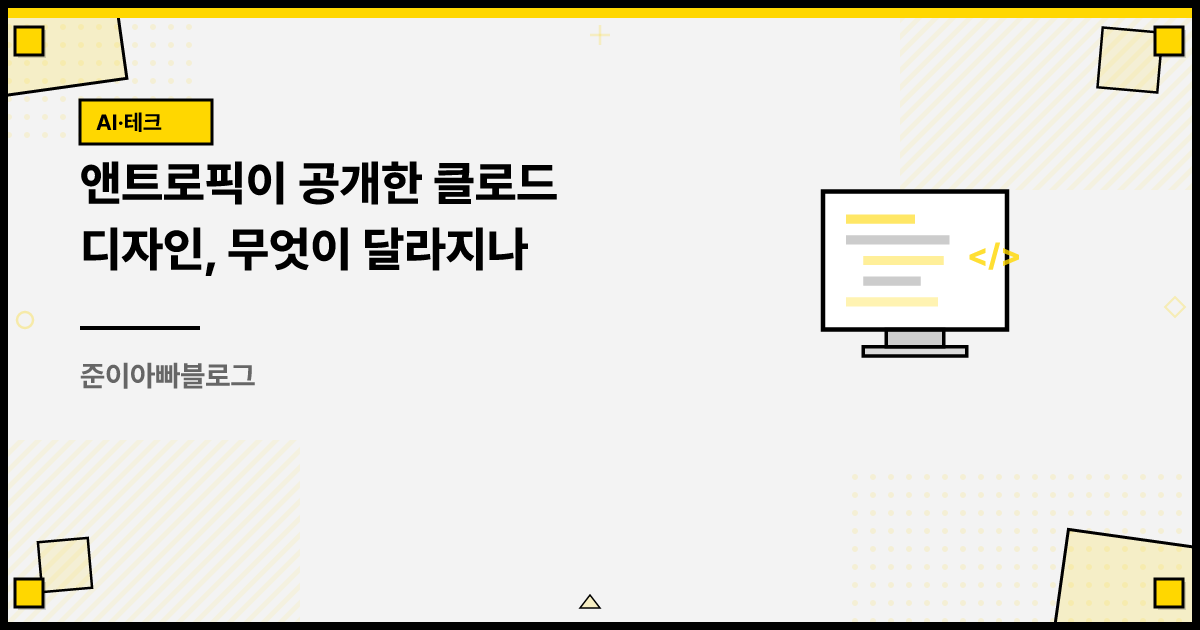
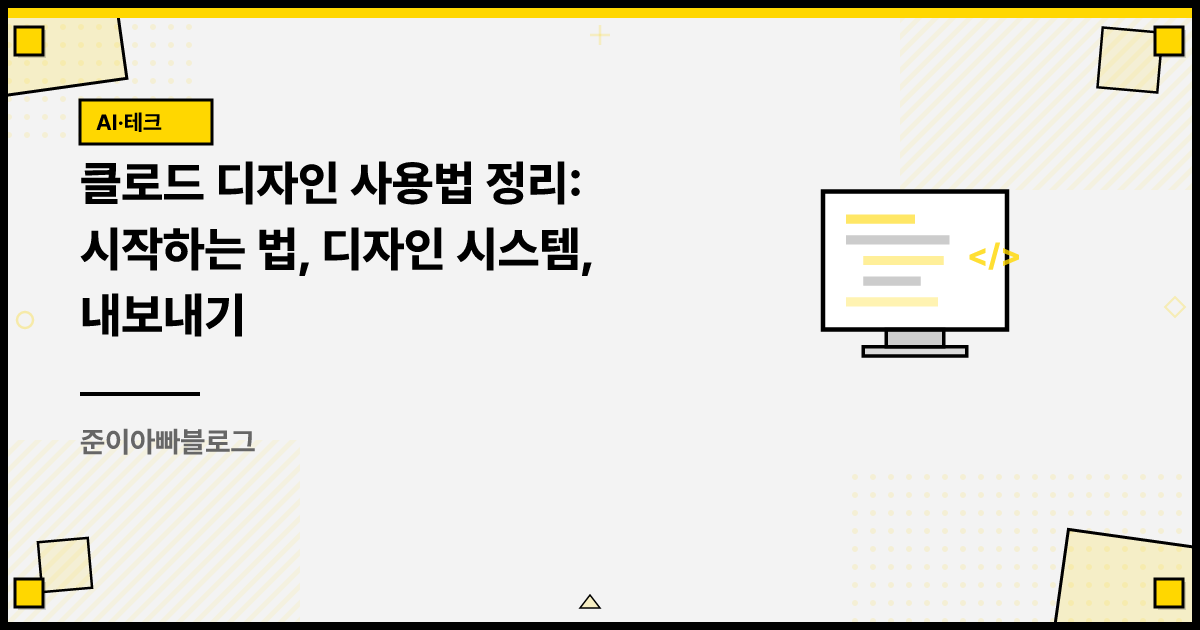
fix(content): 클로드 디자인 글을 사용법 중심으로 개편하고 사실 갱신
헤드 검색어 "클로드 디자인"이 90일 13,953노출에 CTR 0.16%였다. SERP 상위가
사용법 문서인데 글은 출시 소식 어조라 의도가 어긋나 있었다.

공식 도움말 기준으로 사용법 섹션 3개(시작 방법, 디자인 시스템 설정,
내보내기와 핸드오프)를 추가하고 순서를 앞으로 옮겼다. 4월 이후 바뀐 사실도
바로잡았다. PPTX 내보내기는 현재 지원되며 제공 상태는 베타다. 퀴즈에서
PPTX를 오답으로 둔 선택지를 교체했다.

구어체 질문형 소제목 8개를 명사형으로 정리하고 metaTitle의 사이트명 접미를
제거했다. updatedAt을 기록해 재크롤링 우선순위를 올린다.

Claude-Session: https://claude.ai/code/session_01G3Mmc25bnKLy8cVsujPTf2

diff --git a/content/insights/claude-design-launch-review.md b/content/insights/claude-design-launch-review.md
@@ -1,133 +1,195 @@
 ---
 slug: claude-design-launch-review
-title: '앤트로픽이 공개한 클로드 디자인, 무엇이 달라지나'
+title: '클로드 디자인 사용법 정리: 시작하는 법, 디자인 시스템, 내보내기'
 excerpt: >-
-  앤트로픽 랩스가 2026년 4월 17일 공개한 클로드 디자인은 자연어 지시로 웹 프로토타입과 디자인 시스템을 만들고 그대로 코드까지 넘기는
-  도구입니다. 출시 직후 Figma 주가가 즉시 하락했고 Canva는 통합 파트너로 합류했습니다. 출시 정보, 시장 반응, 그리고 이
-  업데이트가 보여주는 앤트로픽의 방향성을 함께 정리했습니다.
+  클로드 디자인(Claude Design)은 자연어 지시로 웹 시안과 디자인 시스템을 만들고 그대로 코드까지 넘기는 앤트로픽의 도구입니다.
+  claude.ai/design에서 시작하는 방법부터 디자인 시스템 설정, 내보내기 형식, 사용량 한도까지 공식 문서를 기준으로 정리했습니다.
 category: AI_TECH
 tags:
   - AI
   - 자동화
   - 노코드
 publishedAt: '2026-04-18T14:00:00.000Z'
+updatedAt: '2026-08-03T00:00:00.000Z'
 quiz:
   - options:
       - 디자인 시스템을 자동 학습한 뒤 단일 명령으로 프로덕션 코드까지 넘기는 closed loop를 갖췄다는 점
-      - 채팅창에서 답을 받지 않고 곧바로 .pptx 파일이 떨어진다는 점
       - 무료 플랜에서도 무제한으로 쓸 수 있다는 점
       - 사람이 손으로 그리는 정밀 픽셀 작업을 더 빠르게 대체한다는 점
+      - 여러 명이 같은 시안을 동시에 편집할 수 있다는 점
     question: 'v0, Lovable 같은 다른 AI 디자인 도구와 비교했을 때 클로드 디자인의 가장 차별적인 지점은 무엇일까요?'
     explanation: >-
-      클로드 디자인은 코드베이스를 읽어 색상, 타이포그래피, 컴포넌트로 구성된 디자인 시스템을 자동 추출하고, 완성된 시안을 Claude
-      Code로 단일 명령에 넘겨 프로덕션 코드까지 만들어 내는 closed loop가 가장 큰 차별점입니다. 이 흐름은 The New
-      Stack과 VentureBeat가 공통으로 핵심 차별점으로 지목한 부분이며, v0가 React 컴포넌트 출력에 강하고
-      Lovable이 배포까지 한 번에 간다면 클로드 디자인은 그 사이에 자리해 시안과 프로덕션 코드를 같은 생태계 안에서 묶는 데
-      강합니다. PPTX 파일 즉시 출력이나 무료 무제한 사용은 사실이 아니며, 정밀 픽셀 디자인은 여전히 사람의 영역입니다.
+      클로드 디자인은 코드베이스를 읽어 색상, 타이포그래피, 컴포넌트로 구성된 디자인 시스템을 자동 추출하고, 완성된 시안을 핸드오프
+      번들로 묶어 Claude Code에 넘기는 closed loop가 가장 큰 차별점입니다. 무료 플랜은 지원 대상이 아니고, 정밀 픽셀
+      디자인은 여전히 사람의 영역이며, 공식 문서는 여러 사용자의 동시 편집을 지원하지 않는다고 밝히고 있습니다.
     correctIndex: 0
-metaTitle: '앤트로픽이 공개한 클로드 디자인, 무엇이 달라지나 | 준이아빠블로그'
+metaTitle: '클로드 디자인 사용법: 시작 방법과 디자인 시스템 설정, 내보내기 형식'
 metaDescription: >-
-  앤트로픽 랩스가 4월 17일 공개한 클로드 디자인의 차별점, 시장 반응(Figma 주가 하락, Canva 통합), 그리고 이 업데이트가
-  보여주는 앤트로픽의 수직 분화 전략과 closed loop 생태계 구상을 정리했습니다.
+  클로드 디자인(Claude Design)은 자연어 지시로 웹 시안과 디자인 시스템을 만드는 앤트로픽의 도구입니다.
+  claude.ai/design 접근 방법, 프로젝트 만드는 순서, 디자인 시스템 설정, 내보내기 형식과 사용량 한도를 공식 문서 기준으로
+  정리했습니다.
 ogImage: /og/claude-design-launch-review.png
-ogTitle: '클로드 디자인 출시 정리: 무엇이 달라지나'
-ogDescription: '클로드 디자인의 차별점과 시장 반응, 그리고 앤트로픽의 다음 방향성을 공식 출처와 함께 정리했습니다.'
+ogTitle: '클로드 디자인 사용법 정리: 시작하는 법과 디자인 시스템 설정'
+ogDescription: 'claude.ai/design 접근 방법부터 디자인 시스템 설정, 내보내기 형식, 사용량 한도까지 공식 문서 기준으로 정리했습니다.'
 ---
 
-## 클로드 디자인이 무엇일까요?
+클로드 디자인(Claude Design)은 자연어 지시로 웹 시안과 디자인 시스템을 만들고 그 결과를 프로덕션 코드로 넘기는 [앤트로픽](/class/claude-fundamentals/what-is-anthropic) 랩스의 도구입니다. 2026년 4월 17일 공개됐고, 2026년 8월 기준 Pro, Max, Team, Enterprise 플랜에서 베타로 제공됩니다.
 
-클로드 디자인(Claude Design)은 자연어 지시로 웹 프로토타입, 인터랙티브 웹 화면, 디자인 시스템을 만들고 그 결과를 곧바로 프로덕션 코드로 넘기는 [앤트로픽](/class/claude-fundamentals/what-is-anthropic) 랩스(Anthropic Labs)의 새 제품입니다. 2026년 4월 17일 공개됐고, 플래그십 비전 모델인 클로드 Opus 4.7을 기반으로 작동합니다. Pro, Max, Team, Enterprise 구독자가 리서치 프리뷰 형태로 사용할 수 있습니다.
-
-이번 발표가 주목받은 이유는 단순한 슬라이드 생성기가 아니라 **"프롬프트에서 프로덕션 코드까지 한 생태계 안에서 끝낸다"**는 closed loop를 처음으로 본격적으로 구현했다는 데 있습니다. 사용자의 코드베이스와 디자인 파일을 읽어 색상, 타이포그래피, 컴포넌트로 구성된 디자인 시스템을 자동 추출하고, 그 다음부터 모든 결과물에 일관되게 적용합니다. 자세한 기능 설명은 [앤트로픽 공식 발표](https://www.anthropic.com/news/claude-design-anthropic-labs)에 정리돼 있습니다.
+이 글에서는 어디서 어떻게 시작하는지, 디자인 시스템을 어떻게 붙이는지, 결과물을 어떤 형식으로 내보내는지를 공식 문서 기준으로 정리합니다. 사용량 한도처럼 미리 알아 둬야 손해를 덜 보는 부분도 함께 다룹니다.
 
 ![클로드 디자인의 디자인 시스템 편집 작업 화면, 색상, 타이포그래피, 컴포넌트가 한 화면에 정리돼 있다](/images/insights/claude-design/claude-design-workspace.webp)
 
-이 글에서는 클로드 디자인이 다른 AI 디자인 도구와 무엇이 다른지, 시장은 어떻게 반응했는지, 그리고 이 한 번의 출시가 앤트로픽의 어떤 큰 그림을 보여주는지 정리합니다.
+## 클로드 디자인 시작하는 방법
 
-## 클로드 디자인은 무엇이 달라졌을까요?
+접근 경로는 두 가지입니다. 웹에서는 `claude.ai/design`으로 들어가고, 데스크톱 앱을 쓴다면 사이드바에서 바로 열 수 있습니다. 별도 구독이나 추가 결제는 없고 쓰던 플랜에 포함됩니다. Enterprise 플랜은 기본값이 비활성화라 관리자가 먼저 켜 줘야 합니다.
 
-가장 자주 비교되는 도구는 Figma, v0, Lovable, Canva입니다. The New Stack과 VentureBeat의 분석을 종합해 정리하면 차이가 또렷해집니다.
+> **클로드 디자인은 claude.ai/design 또는 클로드 데스크톱 앱 사이드바에서 접근합니다. Pro, Max, Team, Enterprise 플랜에 추가 비용 없이 포함됩니다.**
+
+시작 절차는 일곱 단계입니다.
+
+1. **프로젝트를 만듭니다.**
+2. **디자인 시스템을 붙이거나 가져옵니다.** 이 단계는 뒤에서 따로 다룹니다.
+3. **참고할 자료를 넣습니다.** 스크린샷, 기존 디자인 자산, GitHub 저장소, 코드베이스, 디자인 파일, 슬라이드 덱이 모두 입력으로 들어갑니다.
+4. **무엇을 만들지 채팅으로 설명합니다.**
+5. **캔버스에서 결과를 확인합니다.**
+6. **다듬습니다.** 채팅으로 요청하거나, 캔버스에서 직접 고치거나, 특정 요소에 인라인 댓글을 답니다.
+7. **내보내거나 공유합니다.**
+
+**Q. 텍스트만으로 시작해도 되나요?**
+A. 됩니다. 다만 결과물의 일관성은 넣어 준 자료의 품질을 따라갑니다. 브랜드 색이나 기존 화면이 있다면 처음부터 넣는 편이 나중에 고치는 것보다 빠릅니다.
+
+## 디자인 시스템 설정 방법
+
+클로드 디자인의 핵심은 여기에 있습니다. 한 번 설정해 두면 이후 모든 시안에 같은 색과 서체, 컴포넌트가 자동으로 적용됩니다.
+
+설정은 네 단계로 진행됩니다.
+
+1. **조직을 만들거나 선택합니다.** 클로드 디자인에 처음 들어가면 조직을 고르고 온보딩을 마칩니다.
+2. **브랜드와 제품 자산을 올립니다.** 넣을 수 있는 소스는 아래에 따로 정리했습니다.
+3. **추출된 디자인 시스템을 확인합니다.** 클로드가 뽑아낸 색과 서체, 컴포넌트가 맞는지 봅니다.
+4. **팀에 공개합니다.** Published 토글을 켜면 팀원의 모든 프로젝트에 자동 적용됩니다.
+
+자산으로 넣을 수 있는 것은 이렇습니다.
+
+- 코드베이스, 예를 들어 리액트 컴포넌트 라이브러리
+- 프로토타입과 스크린샷
+- 파워포인트나 PDF 같은 슬라이드 덱
+- 로고, 색상 팔레트, 타이포그래피 파일
+
+클로드가 여기서 뽑아내는 것은 네 가지입니다.
+
+| 항목 | 추출 내용 |
+|---|---|
+| 색상 팔레트 | 주요 색, 보조 색, 강조 색 |
+| 타이포그래피 | 글꼴 패밀리, 크기, 굵기 |
+| 컴포넌트 | 버튼, 카드, 내비게이션 같은 재사용 요소 |
+| 레이아웃 | 간격, 그리드, 페이지 구조 |
+
+> **디자인 시스템을 먼저 설정하면 이후 시안마다 브랜드 요소를 다시 지정할 필요가 없습니다. 클로드가 결과물을 시스템과 대조해 스스로 고친 뒤 보여줍니다.**
+
+**Q. 디자인 시스템이 없는 개인도 쓸 수 있나요?**
+A. 쓸 수 있습니다. 다만 이 기능의 이득이 가장 큰 쪽은 이미 브랜드 규칙이 있는 팀입니다. 개인이라면 참고할 화면 몇 장을 넣어 두는 것만으로도 결과가 달라집니다.
+
+## 내보내기와 클로드 코드 핸드오프
+
+완성한 시안은 파일로 받거나 다른 도구로 넘깁니다.
+
+| 구분 | 지원 범위 |
+|---|---|
+| 파일 형식 | ZIP, PDF, PPTX, 독립형 HTML |
+| 연동 파트너 | Adobe, Base44, Canva, Gamma, Lovable, Miro, Replit, Vercel, Wix |
+| 개발 연결 | Claude Code 핸드오프 |
+
+가장 특징적인 것은 [Claude Code](/class/claude-code-for-everyone/what-is-claude-code)로 넘기는 흐름입니다. 시안을 스크린샷으로 넘겨 처음부터 다시 만들게 하는 방식이 아니라, 핸드오프 번들을 만들어 전달합니다. 이 번들에는 컴포넌트, 디자인 토큰, 레이아웃 의도, 반응형 기준점, 인터랙션 상태가 함께 들어갑니다.
+
+반대 방향도 가능합니다. 터미널에서 주로 작업한다면 클로드 디자인 MCP 서버를 연결해 터미널을 떠나지 않고 시안을 만들고 고칩니다.
+
+> **핸드오프 번들에는 화면 그림만이 아니라 디자인 토큰과 반응형 기준점, 인터랙션 상태가 함께 담깁니다. 코드 단계에서 시안을 다시 해석할 필요가 줄어듭니다.**
+
+## 다른 디자인 도구와 구별되는 두 가지
+
+가장 자주 비교되는 도구는 Figma, v0, Lovable, Canva입니다.
 
 | 도구 | 강점 영역 | 클로드 디자인과의 관계 |
 |---|---|---|
 | Figma | 픽셀 단위 협업, 정밀 디자인 | 핵심 협업 기능과 직접 경쟁 안 함 |
 | Canva | 마케팅, SNS 비주얼 자산 | 통합 파트너, 결과물을 Canva로 내보내 편집 가능 |
-| v0 | React/Next.js 컴포넌트 코드 출력 | 클로드 디자인은 더 넓은 시안 단계까지 다룸 |
+| v0 | React, Next.js 컴포넌트 코드 출력 | 클로드 디자인은 더 넓은 시안 단계까지 다룸 |
 | Lovable | 프롬프트 한 번으로 배포까지 | 클로드 디자인은 시안과 핸드오프에 집중 |
 
-**진짜 차별점은 두 가지**입니다. 첫째, 디자인 시스템 자동 학습입니다. 온보딩 단계에서 클로드가 사용자의 코드베이스를 읽어 브랜드 색상, 타이포그래피, 컴포넌트를 추출한 뒤 이후 모든 시안에 자동 적용합니다. 둘째, [Claude Code](/class/claude-code-for-everyone/what-is-claude-code)로 이어지는 단일 명령 핸드오프입니다. 시안이 완성되면 클로드가 핸드오프 번들로 패키징해 한 번의 명령으로 Claude Code에 넘기고, 이후는 프로덕션 코드 작성 단계로 자연스럽게 이어집니다. [The New Stack](https://thenewstack.io/anthropic-claude-design-launch/)은 이 핸드오프 메커니즘을 "탐색에서 프로토타입, 프로덕션 코드까지 모두 앤트로픽 생태계 안에서 닫힌 루프"로 표현했습니다.
+**차별점은 두 가지입니다.** 첫째, 디자인 시스템 자동 학습입니다. 온보딩에서 코드베이스를 읽어 브랜드 색상, 타이포그래피, 컴포넌트를 추출한 뒤 이후 모든 시안에 자동 적용합니다. 둘째, 단일 명령 핸드오프입니다. [The New Stack](https://thenewstack.io/anthropic-claude-design-launch/)은 이 구조를 "탐색에서 프로토타입, 프로덕션 코드까지 모두 앤트로픽 생태계 안에서 닫힌 루프"로 표현했습니다.
 
 ![클로드 디자인 인터페이스 실제 화면](/images/insights/claude-design/claude-design-interface.jpg)
 
-웹 화면이 곧바로 코드로 넘어가는 흐름이 핵심이라, 이 도구는 Adobe XD나 Sketch처럼 디자인 결과물 자체를 끝낸다기보다 **시안과 코드 사이의 가장 어색했던 단계를 자동화하는 데 집중**합니다. 앤트로픽 자체 시니어 프로덕트 디자이너의 보고에 따르면, 경쟁 도구에서 20개 이상의 프롬프트가 필요한 복잡한 페이지를 클로드 디자인에서는 2개의 프롬프트로 재현했다고 합니다. 기존 [클로드 코워크와 클로드 코드의 관계](/insights/claude-cowork-vs-code-comparison)와 마찬가지로, 디자인은 이 두 도구와 한 가족을 이루는 세 번째 짝으로 이해하면 흐름이 잡힙니다.
+앤트로픽 자체 시니어 프로덕트 디자이너의 보고에 따르면, 경쟁 도구에서 20개 이상의 프롬프트가 필요한 복잡한 페이지를 클로드 디자인에서는 2개의 프롬프트로 재현했다고 합니다. 기존 [클로드 코워크와 클로드 코드의 관계](/insights/claude-cowork-vs-code-comparison)와 마찬가지로, 디자인은 이 두 도구와 한 가족을 이루는 세 번째 짝으로 이해하면 흐름이 잡힙니다.
 
-## 시장은 어떻게 반응했을까요?
+## 사용량 한도와 알아 둘 제한
 
-출시 당일 시장 반응은 즉각적이었습니다. [Gizmodo](https://gizmodo.com/anthropic-launches-claude-design-figma-stock-immediately-nosedives-2000748071)는 발표 직후 Figma 주가가 곧바로 하락했다고 보도했고, 한국 [뉴스스페이스의 빅테크 칼럼](https://www.newsspace.kr/news/article.html?no=13521)도 Adobe와 Wix 주가가 함께 하락했다고 전했습니다. Figma와 Adobe가 디자인 도구 시장의 양대 기둥이라는 점을 감안하면, 시장은 클로드 디자인을 단순한 실험이 아니라 **수직 영역으로 한 단계 더 침투한 신호**로 받아들였다고 볼 수 있습니다.
+[PCWorld의 30분 사용 후기](https://www.pcworld.com/article/3117811/i-tried-claude-design-for-half-an-hour-im-already-locked-out-for-a-week.html)에 따르면 결과물 품질은 인상적이라는 평이 많습니다. 단순한 프롬프트로 시작해도 클로드가 후속 질문으로 요구사항을 좁힌 뒤 약 5분 안에 인터랙티브 요소를 갖춘 웹 시안을 완성했다고 합니다.
 
-다만 전선이 모든 도구로 펼쳐진 것은 아닙니다. Canva의 CEO 멜라니 퍼킨스(Melanie Perkins)는 클로드 디자인 출력물을 곧바로 Canva 편집 가능한 디자인으로 가져오는 네이티브 통합에 사인했습니다. 즉 Canva는 위협이 아니라 **하류 협업 도구로 자리 잡는 길**을 택했습니다. 이는 클로드 디자인의 포지셔닝을 잘 보여줍니다. Figma의 핵심인 픽셀 단위 협업이나 Canva의 강점인 마케팅 자산 영역을 직접 공격하지 않고, 그 사이에 비어 있던 "프롬프트로 시안 만들고 코드까지 넘기는" 영역을 쐐기처럼 차지하는 전략입니다. 이른바 wedge strategy입니다.
+다만 사용량 한도가 현실적인 걸림돌로 지적됩니다. Pro 구독자가 30분 사용에 주간 할당량의 80%를 소모했고, 한 번 실수해 다시 만들자 곧바로 한도가 소진됐다는 후기가 있습니다. 다른 사용자는 두 세션 만에 주간 Pro 한도의 58%를 썼다고 보고했습니다. Pro 플랜은 가볍게 체험하는 용도이고, 매주 여러 번 본격적으로 쓸 계획이라면 Max 플랜이 사실상 전제 조건에 가깝습니다.
 
-분석가들의 평가는 갈립니다. [VentureBeat](https://venturebeat.com/technology/anthropic-just-launched-claude-design-an-ai-tool-that-turns-prompts-into-prototypes-and-challenges-figma)는 "Figma에 대한 도전"으로 규정한 반면, [The New Stack](https://thenewstack.io/anthropic-claude-design-launch/)은 "Figma의 협업 영역이 아니라 디자이너 대신 빠른 시안이 필요한 새 사용자층을 노린다"고 분석했습니다. 두 관점의 공통점은, **새로운 사용자층(창업자, 비디자이너 PM, 빠른 내부 툴이 필요한 개발자)**이 핵심 타깃이라는 점입니다.
-
-## 이 업데이트는 앤트로픽의 어떤 방향을 보여주는 걸까요?
-
-한 번의 출시를 단편적으로 보기보다 최근 6개월의 흐름과 함께 보면 방향이 또렷해집니다.
-
-- 2025년: Claude Code, 개발자용 에이전트로 6개월 만에 1B 달러 매출 달성
-- 2026년 1월: Claude Cowork, 비개발자 일반 업무용 에이전트로 확장
-- 2026년 2월: 산업별 플러그인 출시(법무, 인사, 재무, 엔지니어링 등)
-- 2026년 4월 14일: Claude Code 데스크톱 앱 리디자인 + Routines 자동화 기능
-- 2026년 4월 17일: Claude Design, 시각 작업 영역으로 확장
-- 그리고 같은 시기 [Anthropic Labs 신설](https://www.anthropic.com/news/introducing-anthropic-labs), 인스타그램 공동창업자 마이크 크리거(Anthropic CPO)가 합류
-
-이 흐름에서 세 가지 방향성이 읽힙니다.
-
-**첫째, 모델 회사에서 수직 도구 회사로의 무게 이동입니다.** 앤트로픽은 이제 Claude라는 단일 모델을 파는 데서 그치지 않고, 직무별, 작업별 전문 도구를 빠르게 분화시키고 있습니다. "2025년에 Claude가 개발자의 일하는 방식을 바꿨다면, 2026년에는 나머지 모든 지식 노동을 같은 방식으로 바꿀 것"이라는 [VentureBeat 인용](https://venturebeat.com/orchestration/anthropic-says-claude-code-transformed-programming-now-claude-cowork-is)이 이 전략을 압축합니다.
-
-**둘째, 답변 생성에서 산출물 생성으로의 전환입니다.** Code는 코드베이스를 다루고, Cowork는 파일과 폴더를 다루고, Design은 시각 시안과 코드를 다룹니다. 공통점은 모두 **결과를 텍스트로 돌려주지 않고 작업물 그 자체를 내놓는다**는 점입니다. 이 흐름은 단순 챗봇이 도달할 수 없는 영역에서 명확한 가치를 만들어 내는 방향입니다.
-
-**셋째, 도구 간 closed loop 구축입니다.** Design에서 만든 시안이 단일 명령으로 Code로 넘어가고, Cowork에서 모은 자료가 Code의 입력이 되며, Chrome 확장이 웹에서 자료를 가져와 Cowork로 흘려보내는 식입니다. 각 도구가 독립 제품이면서 동시에 한 흐름의 일부로 작동하는 구조이며, 사용자는 한 번 앤트로픽 생태계 안으로 들어오면 다음 작업도 같은 곳에서 잇게 됩니다.
-
-이 세 가지를 묶으면, 앤트로픽이 노리는 것은 **개별 도구의 승리가 아니라 "AI 작업 운영체제"라는 자리**라는 해석이 가능합니다. Design 출시는 그 운영체제의 한 슬롯이 새로 채워진 사건으로 보는 것이 맞습니다.
-
-## 이 흐름을 어떻게 받아들이면 좋을까요?
-
-여기서부터는 한 사용자로서 제 의견을 적습니다. 클로드 디자인 출시를 단독 사건이 아니라 더 큰 흐름의 한 점으로 보면, 지금 일어나고 있는 변화는 "AI 도구 선택"의 의미 자체가 바뀌는 단계라고 느낍니다. 예전에는 "어떤 챗봇을 쓸까"가 질문이었다면, 지금은 "어느 생태계 안으로 들어갈까"가 질문이 되고 있습니다. 클로드 디자인이 결과물을 클로드 코드로 단일 명령에 넘기는 구조는 분명히 lock-in 효과를 만들고, 한 번 그 흐름에 익숙해지면 다른 도구로 옮기는 비용이 빠르게 올라갑니다.
-
-또 하나 분명한 변화는 **"디자인 결과물의 진입장벽은 낮아지지만, 디자인 의도의 진입장벽은 더 높아진다"**는 점입니다. 누구나 시안을 만들 수 있게 되니, 결국 차이는 "왜 이 화면이어야 하는가"를 설명할 수 있는 사람과 그렇지 못한 사람 사이에서 벌어집니다. 디자이너의 일이 줄어드는 것이 아니라, 일의 무게중심이 손기술에서 의도와 판단 쪽으로 옮겨가는 흐름으로 보입니다. 이는 코드 영역에서 클로드 코드 출시 이후 개발자에게 일어난 변화와 거의 같은 양상입니다.
-
-마지막으로, 지금 시점에서 한 사용자가 가져갈 수 있는 가장 안전한 태도는 **한 도구에 깊이 lock-in되기 전에, 여러 생태계의 흐름을 짧게라도 모두 체험하는 것**이라고 생각합니다. 앤트로픽의 closed loop가 매력적이라는 사실과, 그 안에 들어가면 빠져나오기 어려워진다는 사실은 동시에 참입니다. 이 흐름을 멀리서 관찰만 하기보다 직접 한두 번 시안을 만들어 본 뒤 본인의 작업과 어떻게 맞물리는지 감을 잡아 두는 편이, 다음 한두 분기 동안 펼쳐질 도구 경쟁에서 자기 위치를 잡는 데 도움이 될 것입니다.
-
-## 실제로 써본 사람들의 반응은 어떨까요?
-
-[PCWorld의 30분 사용 후기](https://www.pcworld.com/article/3117811/i-tried-claude-design-for-half-an-hour-im-already-locked-out-for-a-week.html)에 따르면, 결과물 자체의 품질은 인상적이라는 평이 많습니다. 단순한 프롬프트로 시작했지만 클로드가 후속 질문으로 요구사항을 구체화한 뒤 약 5분 안에 인터랙티브 요소를 갖춘 깔끔한 웹 시안을 완성했다고 합니다.
-
-다만 **사용량 한도가 가장 큰 현실적 걸림돌**로 지적됐습니다. Pro 구독자가 30분 사용에 주간 클로드 디자인 할당량의 80%를 소모했고, 한 번 실수해 작업을 다시 만들자 곧바로 한도가 소진됐다는 후기가 나왔습니다. 다른 사용자는 두 세션 만에 주간 Pro 한도의 58%를 썼다고 보고했습니다. 즉 Pro 플랜은 가볍게 체험하는 용도이고, 매주 여러 번 본격적으로 쓸 계획이라면 Max 플랜이 사실상 전제 조건입니다.
-
-여기서 한 가지 짚어 둘 점이 있습니다. 클로드 디자인은 **일반 클로드 채팅과 별개의 주간 한도**를 따로 갖습니다. 즉 평소 채팅을 아무리 아껴 써도 클로드 디자인 한도가 자동으로 늘어나지 않으며, 반대로 디자인 한도를 다 써도 일반 채팅은 그대로 쓸 수 있습니다. 아래 이미지가 그 사용량 화면 예시이며, 매주 금요일 오전 8시에 리셋되고 한도 진행률이 막대로 표시됩니다. 본격적으로 사용을 시작하기 전에 자기 플랜의 한도와 리셋 주기를 한 번 확인해 두는 것이 좋습니다.
+여기서 알아 둘 점이 있습니다. 클로드 디자인은 일반 클로드 채팅과 별개의 주간 한도를 따로 갖습니다. 평소 채팅을 아껴 써도 디자인 한도가 늘어나지 않고, 반대로 디자인 한도를 다 써도 일반 채팅은 그대로 쓸 수 있습니다.
 
 ![클로드 디자인의 주간 사용량 한도 화면, 일반 채팅과 별개의 별도 한도를 가지며 매주 금요일 오전 8시에 리셋된다](/images/insights/claude-design/claude-design-redesign-example.png)
 
-플러그인 측면에서도 한 가지가 자주 언급됩니다. 클로드 디자인 웹은 시안을 그려 주지만 **PPTX 파일이 즉시 떨어지지는 않으며**, 슬라이드나 발표 자료로 옮기려면 Claude Code의 디자인 플러그인 같은 보조 단계가 추가로 필요합니다. 도구 한 개로 끝나지 않는다는 점은 사전에 알고 들어가는 것이 좋습니다.
+공식 문서가 밝히는 제한도 함께 알아 두면 좋습니다.
 
-## 누가 지금 써볼 만할까요?
+- 여러 사용자가 같은 시안을 동시에 편집하는 기능은 지원하지 않습니다
+- 웹과 데스크톱에서만 쓸 수 있습니다
+- 인라인 댓글이 간헐적으로 표시되지 않을 수 있습니다
+- 코드베이스가 아주 크면 성능 문제가 생길 수 있습니다
+- 디자인 시스템의 품질은 넣어 준 소스의 품질을 따라갑니다
 
-현재 시점에서 클로드 디자인이 가장 잘 맞는 사용자는 다음과 같습니다.
+> **클로드 디자인의 주간 한도는 일반 채팅과 분리되어 있고, 매주 금요일 오전 8시에 초기화됩니다. 본격적으로 쓰기 전에 자기 플랜의 한도와 리셋 주기를 먼저 확인하는 편이 좋습니다.**
 
-- 내부 툴이나 신규 기능 프로토타입을 빠르게 시각화해야 하는 창업자, 비디자이너 PM
-- 같은 디자인 시스템을 일관되게 적용한 다량의 시안을 자주 만들어야 하는 팀
-- Figma까지 띄우기는 무겁고, Canva만으로는 인터랙션이 부족한 중간 영역의 작업이 잦은 사용자
+## 지금 써볼 만한 사용자와 보류할 사용자
 
-반면 다음 경우에는 아직 보류를 권합니다.
+현재 시점에서 잘 맞는 쪽은 다음과 같습니다.
 
-- Pro 플랜만으로 매주 다량의 결과물을 양산해야 하는 개인 (한도 소진이 빠름)
+- 내부 툴이나 신규 기능 시안을 빠르게 시각화해야 하는 창업자와 비디자이너 PM
+- 같은 디자인 시스템을 일관되게 적용한 시안을 자주 만들어야 하는 팀
+- Figma까지 띄우기는 무겁고 Canva만으로는 인터랙션이 부족한 중간 영역의 작업이 잦은 사용자
+
+반면 보류를 권하는 경우도 있습니다.
+
+- Pro 플랜만으로 매주 다량의 결과물을 만들어야 하는 개인. 한도 소진이 빠릅니다
 - 디자이너 없이 끝까지 마무리해야 하는 정식 디자인 산출물
-- 픽셀 단위의 정밀 브랜딩이나 협업 중심의 디자인 작업
+- 픽셀 단위 정밀 브랜딩이나 여러 명이 함께 작업해야 하는 협업 중심 작업
 
-## 정리
+## 출시 직후 시장 반응
 
-- 클로드 디자인은 자연어로 웹 프로토타입과 디자인 시스템을 만들고 단일 명령으로 Claude Code로 넘기는 closed loop가 핵심입니다
-- 시장은 즉시 반응했습니다. Figma, Adobe, Wix 주가가 하락했고, Canva는 통합 파트너로 합류해 하류 협업 도구 자리를 택했습니다
-- Code → Cowork → Design으로 이어지는 6개월의 흐름은 앤트로픽이 모델 회사에서 "AI 작업 운영체제" 회사로 무게를 옮기고 있음을 보여줍니다
+출시 당일 반응은 즉각적이었습니다. [Gizmodo](https://gizmodo.com/anthropic-launches-claude-design-figma-stock-immediately-nosedives-2000748071)는 발표 직후 Figma 주가가 곧바로 하락했다고 보도했고, 한국 [뉴스스페이스의 빅테크 칼럼](https://www.newsspace.kr/news/article.html?no=13521)도 Adobe와 Wix 주가가 함께 하락했다고 전했습니다.
 
-자세한 내용은 [앤트로픽 공식 발표](https://www.anthropic.com/news/claude-design-anthropic-labs), [The New Stack의 분석](https://thenewstack.io/anthropic-claude-design-launch/), [VentureBeat의 Figma 비교 기사](https://venturebeat.com/technology/anthropic-just-launched-claude-design-an-ai-tool-that-turns-prompts-into-prototypes-and-challenges-figma), [PCWorld의 사용 후기](https://www.pcworld.com/article/3117811/i-tried-claude-design-for-half-an-hour-im-already-locked-out-for-a-week.html)를 참고해 직접 시도해 보시기 바랍니다.
+다만 전선이 모든 도구로 펼쳐진 것은 아닙니다. Canva는 클로드 디자인 출력물을 그대로 Canva 편집 화면으로 가져오는 네이티브 통합을 택했습니다. 위협이 아니라 하류 협업 도구로 자리 잡는 길을 고른 셈입니다.
+
+분석가들의 평가는 갈립니다. [VentureBeat](https://venturebeat.com/technology/anthropic-just-launched-claude-design-an-ai-tool-that-turns-prompts-into-prototypes-and-challenges-figma)는 "Figma에 맞선 도전"으로 규정한 반면, [The New Stack](https://thenewstack.io/anthropic-claude-design-launch/)은 "Figma의 협업 영역이 아니라 디자이너 대신 빠른 시안이 필요한 새 사용자층을 노린다"고 분석했습니다. 두 관점의 공통점은 창업자, 비디자이너 PM, 빠른 내부 툴이 필요한 개발자가 핵심 타깃이라는 점입니다.
+
+## 앤트로픽의 최근 흐름에서 읽히는 방향
+
+한 번의 출시를 단편으로 보기보다 최근 흐름과 함께 보면 방향이 또렷해집니다.
+
+- 2025년: Claude Code, 개발자용 에이전트
+- 2026년 1월: Claude Cowork, 비개발자 일반 업무용으로 확장
+- 2026년 2월: 산업별 플러그인 출시
+- 2026년 4월 14일: Claude Code 데스크톱 앱 리디자인과 Routines 자동화
+- 2026년 4월 17일: Claude Design, 시각 작업 영역으로 확장
+
+여기서 두 가지가 읽힙니다.
+
+**첫째, 답변 생성에서 산출물 생성으로의 전환입니다.** Code는 코드베이스를 다루고, Cowork는 파일과 폴더를 다루고, Design은 시각 시안과 코드를 다룹니다. 공통점은 결과를 텍스트로 돌려주지 않고 작업물 자체를 내놓는다는 점입니다.
+
+**둘째, 도구 사이의 연결입니다.** Design에서 만든 시안이 단일 명령으로 Code로 넘어가고, Cowork에서 모은 자료가 Code의 입력이 됩니다. 각 도구가 독립 제품이면서 한 흐름의 일부로 작동하는 구조입니다.
+
+이 구조는 편리한 만큼 옮겨 타는 비용도 함께 올립니다. 한 생태계에 익숙해지면 다른 도구로 넘어가기 어려워진다는 점은 미리 감안하는 편이 좋습니다.
+
+**3줄 요약:**
+- 클로드 디자인은 claude.ai/design 또는 데스크톱 앱 사이드바에서 열고, Pro, Max, Team, Enterprise 플랜에 추가 비용 없이 포함됩니다.
+- 디자인 시스템을 먼저 설정하면 이후 시안에 브랜드 색과 서체, 컴포넌트가 자동 적용되고, 완성한 시안은 ZIP, PDF, PPTX, HTML로 내보내거나 Claude Code로 핸드오프할 수 있습니다.
+- 주간 한도가 일반 채팅과 분리되어 있어 Pro 플랜으로는 두세 세션이면 소진되므로, 본격적으로 쓸 계획이라면 플랜부터 확인해야 합니다.
+
+## Sources
+
+- [Get started with Claude Design, Claude Help Center](https://support.claude.com/en/articles/14604416-get-started-with-claude-design)
+- [Set up your design system in Claude Design, Claude Help Center](https://support.claude.com/en/articles/14604397-set-up-your-design-system-in-claude-design)
+- [Introducing Claude Design by Anthropic Labs, Anthropic](https://www.anthropic.com/news/claude-design-anthropic-labs)
